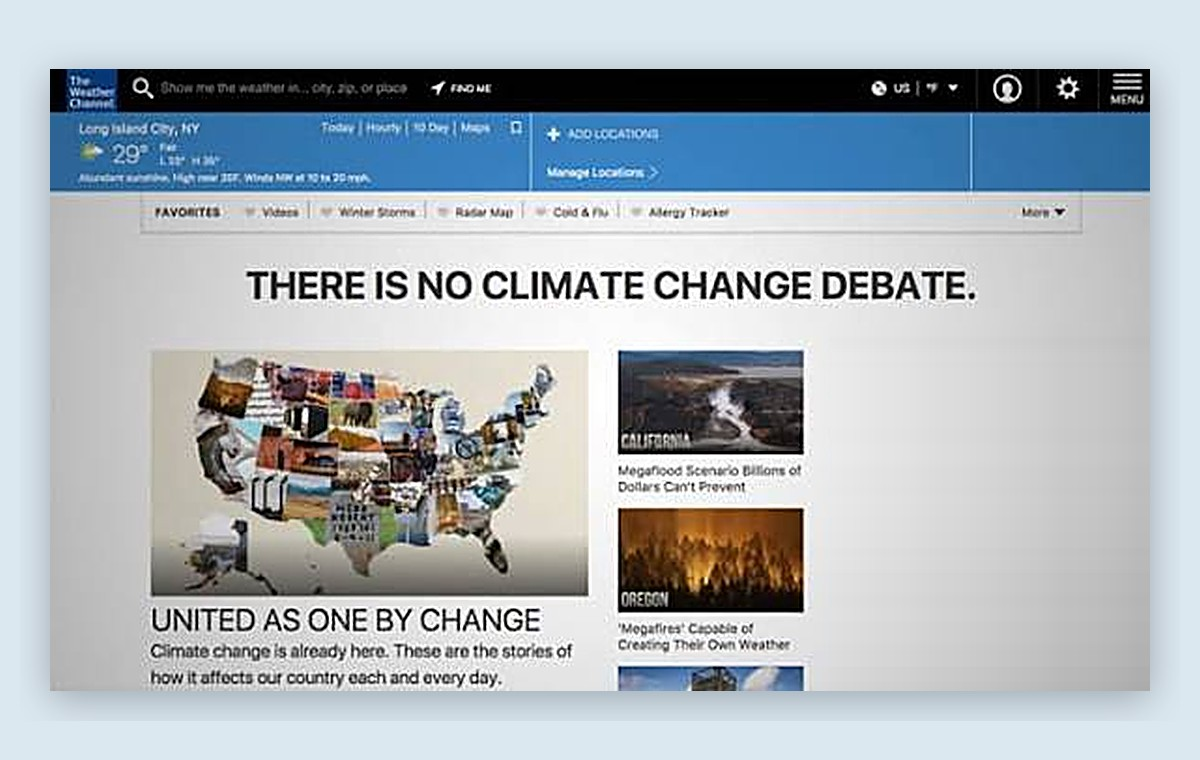
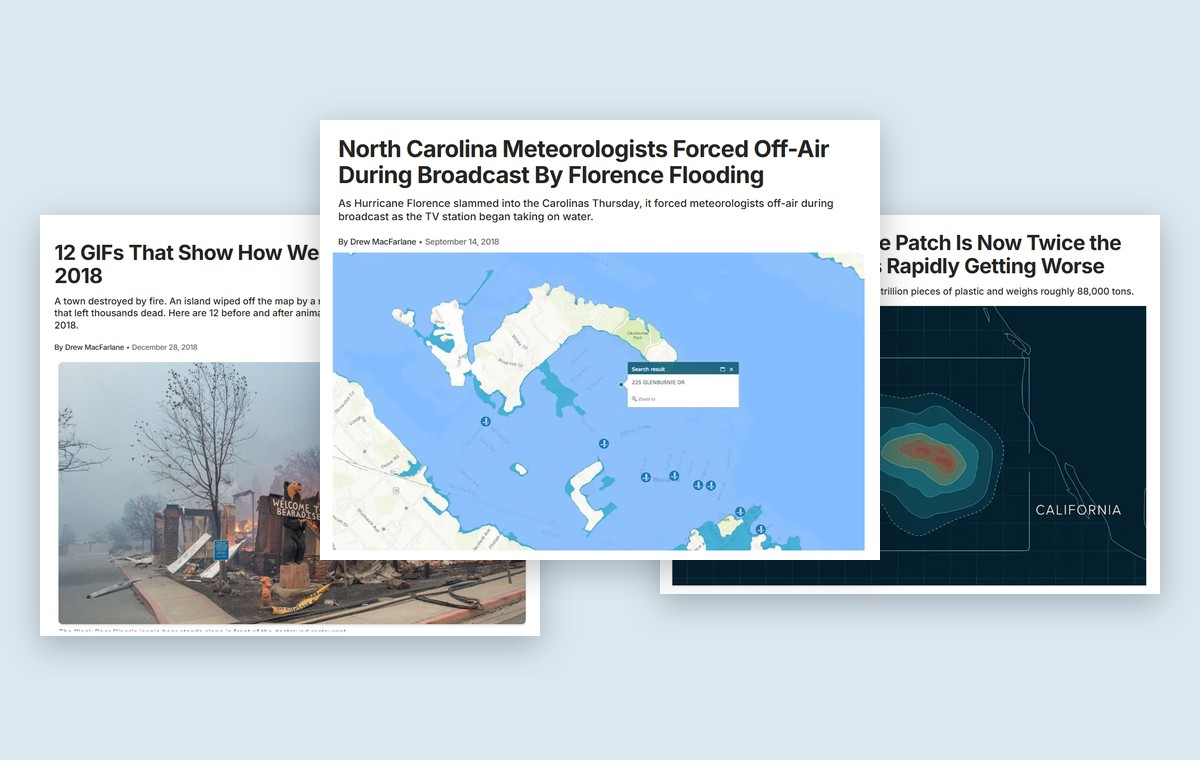
Show three weather.com articles on Weather Channel card
Claude-Session: https://claude.ai/code/session_01KzQiBS3jpiP9KBpjgHsbtK

diff --git a/index.html b/index.html
@@ -106,7 +106,7 @@ a{color:#1A44C8}a:hover{color:#10308F}
 </div>
 </a>
 <a href="#featured-story" style="display: flex; flex-direction: column; background: #FFFFFF; border: 1px solid #DADBD6; border-radius: 20px; overflow: hidden; color: #16181D; text-decoration: none">
-<img src="images/twc-card.jpg" alt="weather.com homepage featuring the United As One By Change climate series" style="display: block; width: 100%; height: 240px; object-fit: cover; object-position: center top">
+<img src="images/twc-card.jpg" alt="Three weather.com stories by Drew MacFarlane: Hurricane Florence flooding, 2018 weather before-and-after GIFs, and the Great Pacific Garbage Patch" style="display: block; width: 100%; height: 240px; object-fit: cover">
 <div style="padding: 28px; display: flex; flex-direction: column; gap: 10px">
 <p style="margin: 0; font-size: 13px; font-weight: 600; letter-spacing: 0.08em; text-transform: uppercase; color: #4A4F5A">The Weather Channel · 2015–2019</p>
 <h3 style="margin: 0; font-family: 'Space Grotesk', sans-serif; font-size: 24px; font-weight: 600; line-height: 1.2">Designing for people in a storm</h3>
